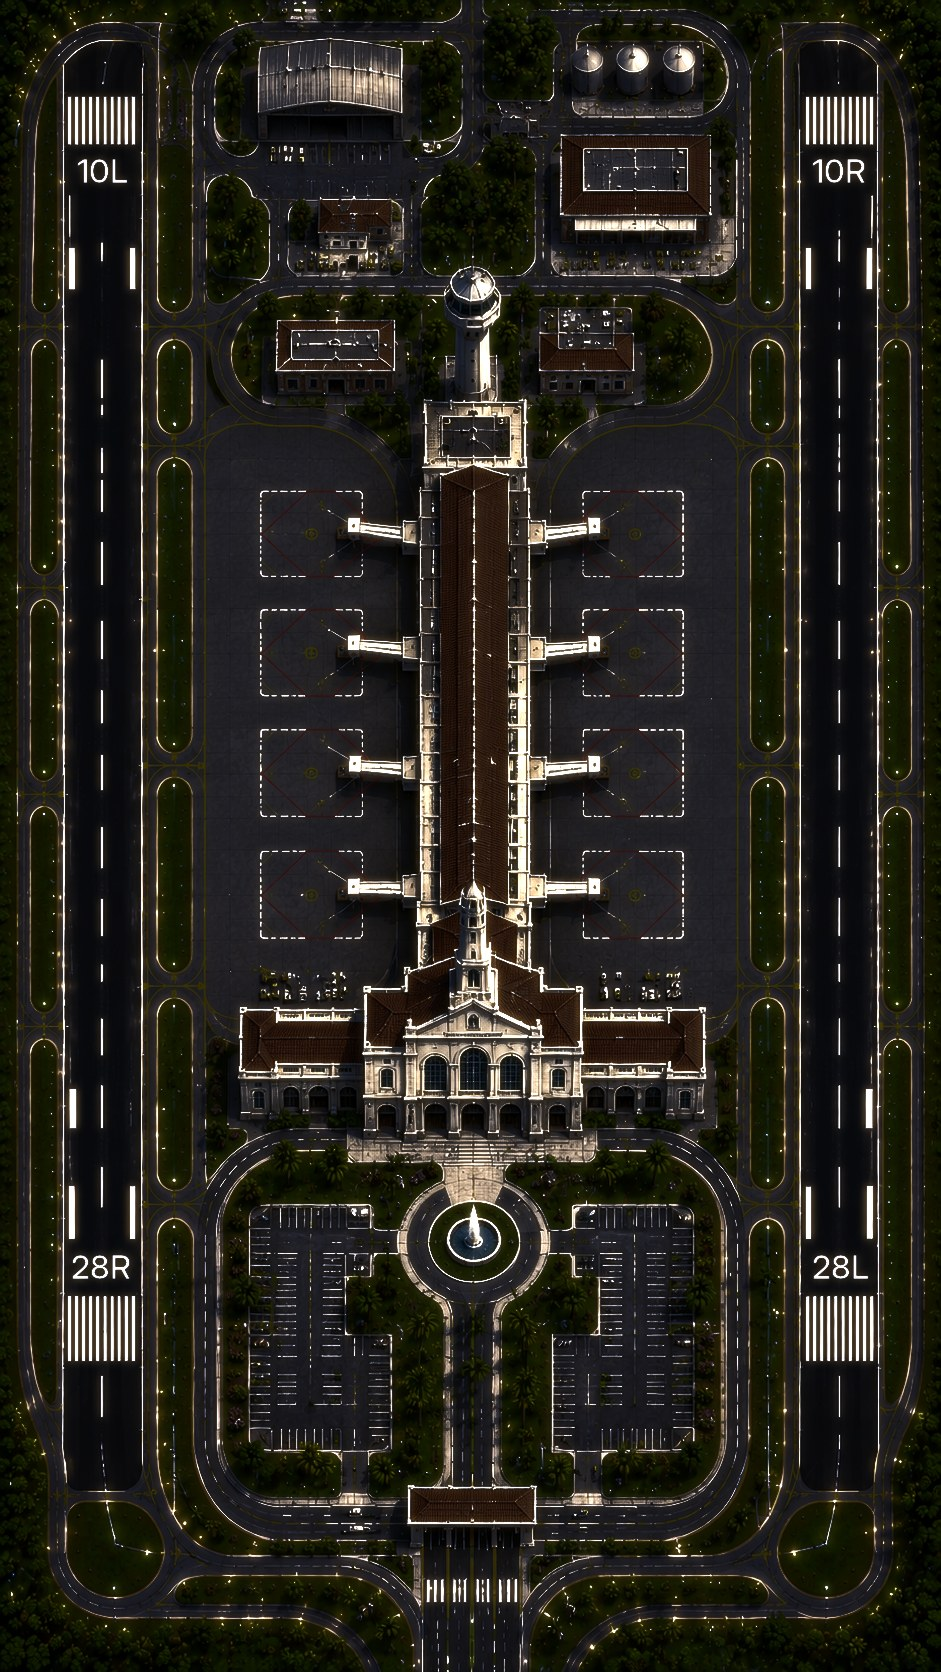
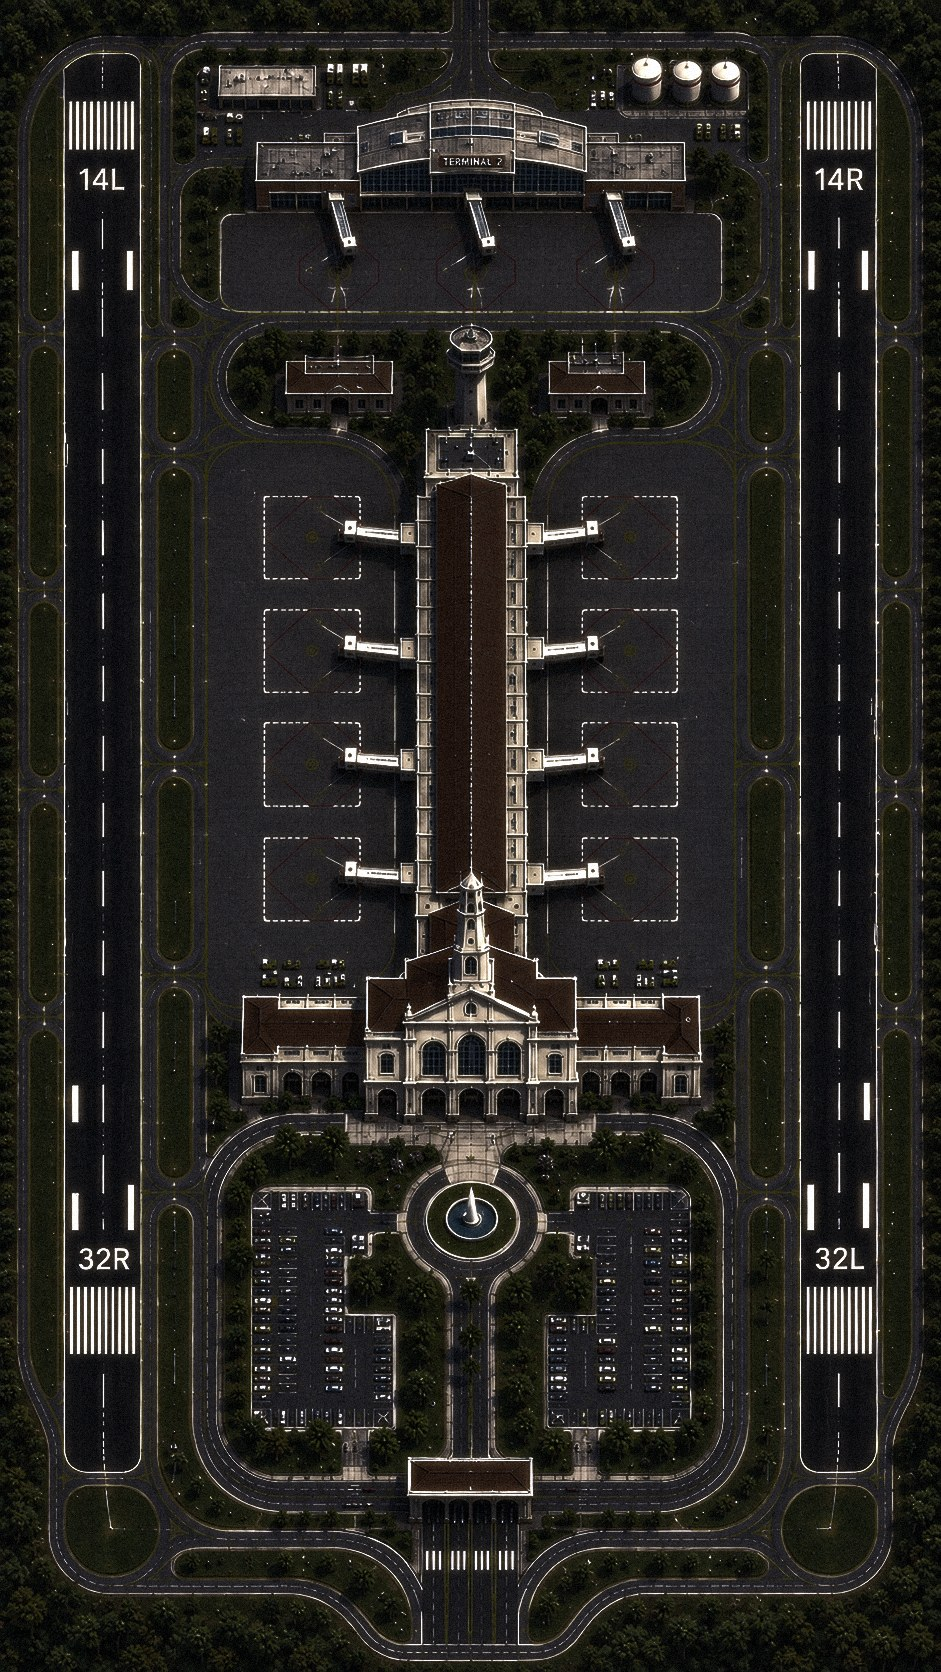
Guarulhos com arte nova: pistas 14L/32R e 14R/32L, píer com 8 portões
Claude-Session: https://claude.ai/code/session_01Y22HSWpi8bJjkUpXL6Y8uJ

diff --git a/index.html b/index.html
@@ -852,7 +852,7 @@ if(!window.PointerEvent){(function(){
 })()}
 </script>
 <script>
-var APPV='1795481797';
+var APPV='1795482660';
 (function(){function chk(){try{fetch('version.txt?t='+Date.now(),{cache:'no-store'}).then(function(r){return r.ok?r.text():''}).then(function(v){v=(v||'').trim();if(v&&v!==APPV){var k='departure_reload_'+v;if(!sessionStorage.getItem(k)){sessionStorage.setItem(k,'1');location.replace(location.pathname+'?v='+v)}}}).catch(function(){})}catch(e){}}
 chk();document.addEventListener('visibilitychange',function(){if(!document.hidden)chk()});})();
 </script>
@@ -981,12 +981,12 @@ var LAYS={
    labels:[],
    mk:()=>[{n:1,x:536,y:312,max:5},{n:2,x:535,y:422,max:5},{n:3,x:536,y:530,max:5},{n:4,x:534,y:635,max:6},{n:5,x:500,y:730,max:7},{n:6,x:504,y:862,max:7},{n:7,x:546,y:960,max:6},{n:8,x:567,y:1065,max:5},{n:9,x:567,y:1175,max:5},{n:10,x:565,y:1285,max:5},
      {n:11,x:430,y:1360,max:4,remote:1,lab:'R1'},{n:12,x:565,y:1360,max:5,remote:1,lab:'R2'}].map(s=>Object.assign(s,{bd:s.remote?0:s.n<=6?-1:1,g:s.remote||s.n>=6?'A':'B',sx:s.remote?(s.n===11?395:610):640,sy:s.remote?s.y+50:s.y}))},
- 3:{id:3,W:941,H:1672,ps:1.3,G:[
-   {id:'A',rx:103,twy:198,lane:232,sg:1,conn:[325,445,765,985,1195,1480],entry:null,th:{"10":96,"28":1362},nm:{"10":"10L","28":"28R"},lt:[67,9,9],reil:[57,149],lbx:34,ap:{"10":[30,48,66,84],"28":[1380,1398,1416,1434,1452]},edge:[66,139]},
-   {id:'B',rx:838,twy:743,lane:709,sg:-1,conn:[325,445,765,985,1195,1480],entry:null,th:{"10":96,"28":1362},nm:{"10":"10R","28":"28L"},lt:[803,9,9],reil:[792,884],lbx:907,ap:{"10":[30,48,66,84],"28":[1380,1398,1416,1434,1452]},edge:[802,875]}],
-   q:{x:320,y:1325,w:110},labels:[],
-   mk:()=>{const Y=[533,652,772,893],M=[6,7,7,6];
-     return Y.map((y,i)=>({n:i+1,x:356,y,max:M[i],g:'A',sx:424,sy:y})).concat(Y.map((y,i)=>({n:i+5,x:585,y,max:M[i],g:'B',sx:517,sy:y})))}}};
+ 3:{id:3,W:941,H:1672,ps:1.05,G:[
+   {id:'A',rx:102,twy:150,lane:198,sg:1,conn:[120,330,455,760,971,1186,1420],entry:[330,455,760,971,1186],th:{"10":75,"28":1455},nm:{"10":"14L","28":"32R"},lt:[67,9,9],reil:[57,149],lbx:34,ap:{"10":[12,26,40,54],"28":[1480,1496,1512,1528,1544]},edge:[66,139]},
+   {id:'B',rx:839,twy:791,lane:743,sg:-1,conn:[120,330,455,760,971,1186,1420],entry:[330,455,760,971,1186],th:{"10":75,"28":1455},nm:{"10":"14R","28":"32L"},lt:[803,9,9],reil:[792,884],lbx:907,ap:{"10":[12,26,40,54],"28":[1480,1496,1512,1528,1544]},edge:[802,875]}],
+   labels:[],
+   mk:()=>{const Y=[534,648,762,876],M=[5,6,6,5];
+     return Y.map((y,i)=>({n:i+1,x:350,y,max:M[i],g:'A',bd:1,sx:432,sy:y})).concat(Y.map((y,i)=>({n:i+5,x:591,y,max:M[i],g:'B',bd:1,sx:509,sy:y})))}}};
 var LAY=LAYS[1],ROTM=false;
 var STANDS=LAY.mk();
 var grpOf=s=>LAY.G.find(g=>g.id===(s&&s.g))||LAY.G[0];

diff --git a/lite.html b/lite.html
@@ -861,7 +861,7 @@ if(!window.PointerEvent){(function(){
 })()}
 </script>
 <script>
-var APPV='1795481797';
+var APPV='1795482660';
 (function(){function chk(){try{fetch('version.txt?t='+Date.now(),{cache:'no-store'}).then(function(r){return r.ok?r.text():''}).then(function(v){v=(v||'').trim();if(v&&v!==APPV){var k='departure_reload_'+v;if(!sessionStorage.getItem(k)){sessionStorage.setItem(k,'1');location.replace(location.pathname+'?v='+v)}}}).catch(function(){})}catch(e){}}
 chk();document.addEventListener('visibilitychange',function(){if(!document.hidden)chk()});})();
 </script>
@@ -991,12 +991,12 @@ var LAYS={
    labels:[],
    mk:()=>[{n:1,x:536,y:312,max:5},{n:2,x:535,y:422,max:5},{n:3,x:536,y:530,max:5},{n:4,x:534,y:635,max:6},{n:5,x:500,y:730,max:7},{n:6,x:504,y:862,max:7},{n:7,x:546,y:960,max:6},{n:8,x:567,y:1065,max:5},{n:9,x:567,y:1175,max:5},{n:10,x:565,y:1285,max:5},
      {n:11,x:430,y:1360,max:4,remote:1,lab:'R1'},{n:12,x:565,y:1360,max:5,remote:1,lab:'R2'}].map(s=>Object.assign(s,{bd:s.remote?0:s.n<=6?-1:1,g:s.remote||s.n>=6?'A':'B',sx:s.remote?(s.n===11?395:610):640,sy:s.remote?s.y+50:s.y}))},
- 3:{id:3,W:941,H:1672,ps:1.3,G:[
-   {id:'A',rx:103,twy:198,lane:232,sg:1,conn:[325,445,765,985,1195,1480],entry:null,th:{"10":96,"28":1362},nm:{"10":"10L","28":"28R"},lt:[67,9,9],reil:[57,149],lbx:34,ap:{"10":[30,48,66,84],"28":[1380,1398,1416,1434,1452]},edge:[66,139]},
-   {id:'B',rx:838,twy:743,lane:709,sg:-1,conn:[325,445,765,985,1195,1480],entry:null,th:{"10":96,"28":1362},nm:{"10":"10R","28":"28L"},lt:[803,9,9],reil:[792,884],lbx:907,ap:{"10":[30,48,66,84],"28":[1380,1398,1416,1434,1452]},edge:[802,875]}],
-   q:{x:320,y:1325,w:110},labels:[],
-   mk:()=>{const Y=[533,652,772,893],M=[6,7,7,6];
-     return Y.map((y,i)=>({n:i+1,x:356,y,max:M[i],g:'A',sx:424,sy:y})).concat(Y.map((y,i)=>({n:i+5,x:585,y,max:M[i],g:'B',sx:517,sy:y})))}}};
+ 3:{id:3,W:941,H:1672,ps:1.05,G:[
+   {id:'A',rx:102,twy:150,lane:198,sg:1,conn:[120,330,455,760,971,1186,1420],entry:[330,455,760,971,1186],th:{"10":75,"28":1455},nm:{"10":"14L","28":"32R"},lt:[67,9,9],reil:[57,149],lbx:34,ap:{"10":[12,26,40,54],"28":[1480,1496,1512,1528,1544]},edge:[66,139]},
+   {id:'B',rx:839,twy:791,lane:743,sg:-1,conn:[120,330,455,760,971,1186,1420],entry:[330,455,760,971,1186],th:{"10":75,"28":1455},nm:{"10":"14R","28":"32L"},lt:[803,9,9],reil:[792,884],lbx:907,ap:{"10":[12,26,40,54],"28":[1480,1496,1512,1528,1544]},edge:[802,875]}],
+   labels:[],
+   mk:()=>{const Y=[534,648,762,876],M=[5,6,6,5];
+     return Y.map((y,i)=>({n:i+1,x:350,y,max:M[i],g:'A',bd:1,sx:432,sy:y})).concat(Y.map((y,i)=>({n:i+5,x:591,y,max:M[i],g:'B',bd:1,sx:509,sy:y})))}}};
 var LAY=LAYS[1],ROTM=false;
 var STANDS=LAY.mk();
 var grpOf=s=>LAY.G.find(g=>g.id===(s&&s.g))||LAY.G[0];
